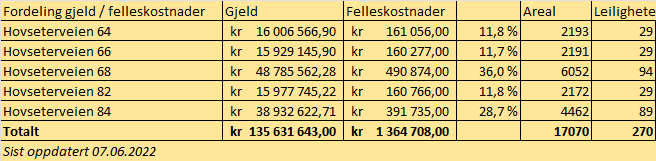
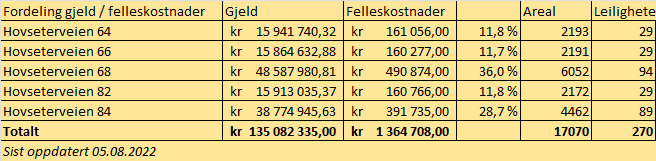
updates

diff --git a/content/forowners/finance/_index.md b/content/forowners/finance/_index.md
@@ -31,32 +31,32 @@ Lånene som betjenes med fellesgjelden har en nedbetalingsplan på 30 og 40 år.
 
 Borettslaget har forskjellige lån tatt opp til forskjellige behov over tid. Eksempler på lån som er tatt opp nylig er rør og våtromsprosjektet, kjøp av garasje og fasadeprosjekt.
 
-Lånene er totalt på 164 200 179,- (05.05.2022)
+Lånene er totalt på 163 091 247,- (05.08.2022)
 
 ### OBBK02
 
-- Saldo: 28 287 147,00
+- Saldo: 28.008.912,-
 - Månedlig terminer til september 2047
 
 Gjelder kjøp av garasjer i Hovseterveien 70. Fordeles på leiligheter med garasje i Hovseterveien 70 (157 plasser)
 
 ### OBBK04
 
-- Saldo: 55 190 485,00
+- Saldo: 54.776.840,-
 - Månedlig terminer til november 2047
 
 Lån til bad og våtroms rehabilitering.
 
 ### OBOS08
 
-- Saldo: 74 379 858,00
+- Saldo: 74.041.525,-
 - Månedlig terminer til april 2059
 
 Lån til fasadeprosjekt. Dette er nå fullt ut belastet og vil ikke øke mer.
 
 ### OBOS09
 
-- Saldo: 6 342 689
+- Saldo: 6.263.970,-
 - Månedlig terminer til april 2039
 
 Lån til tidligere vedlikehold.
